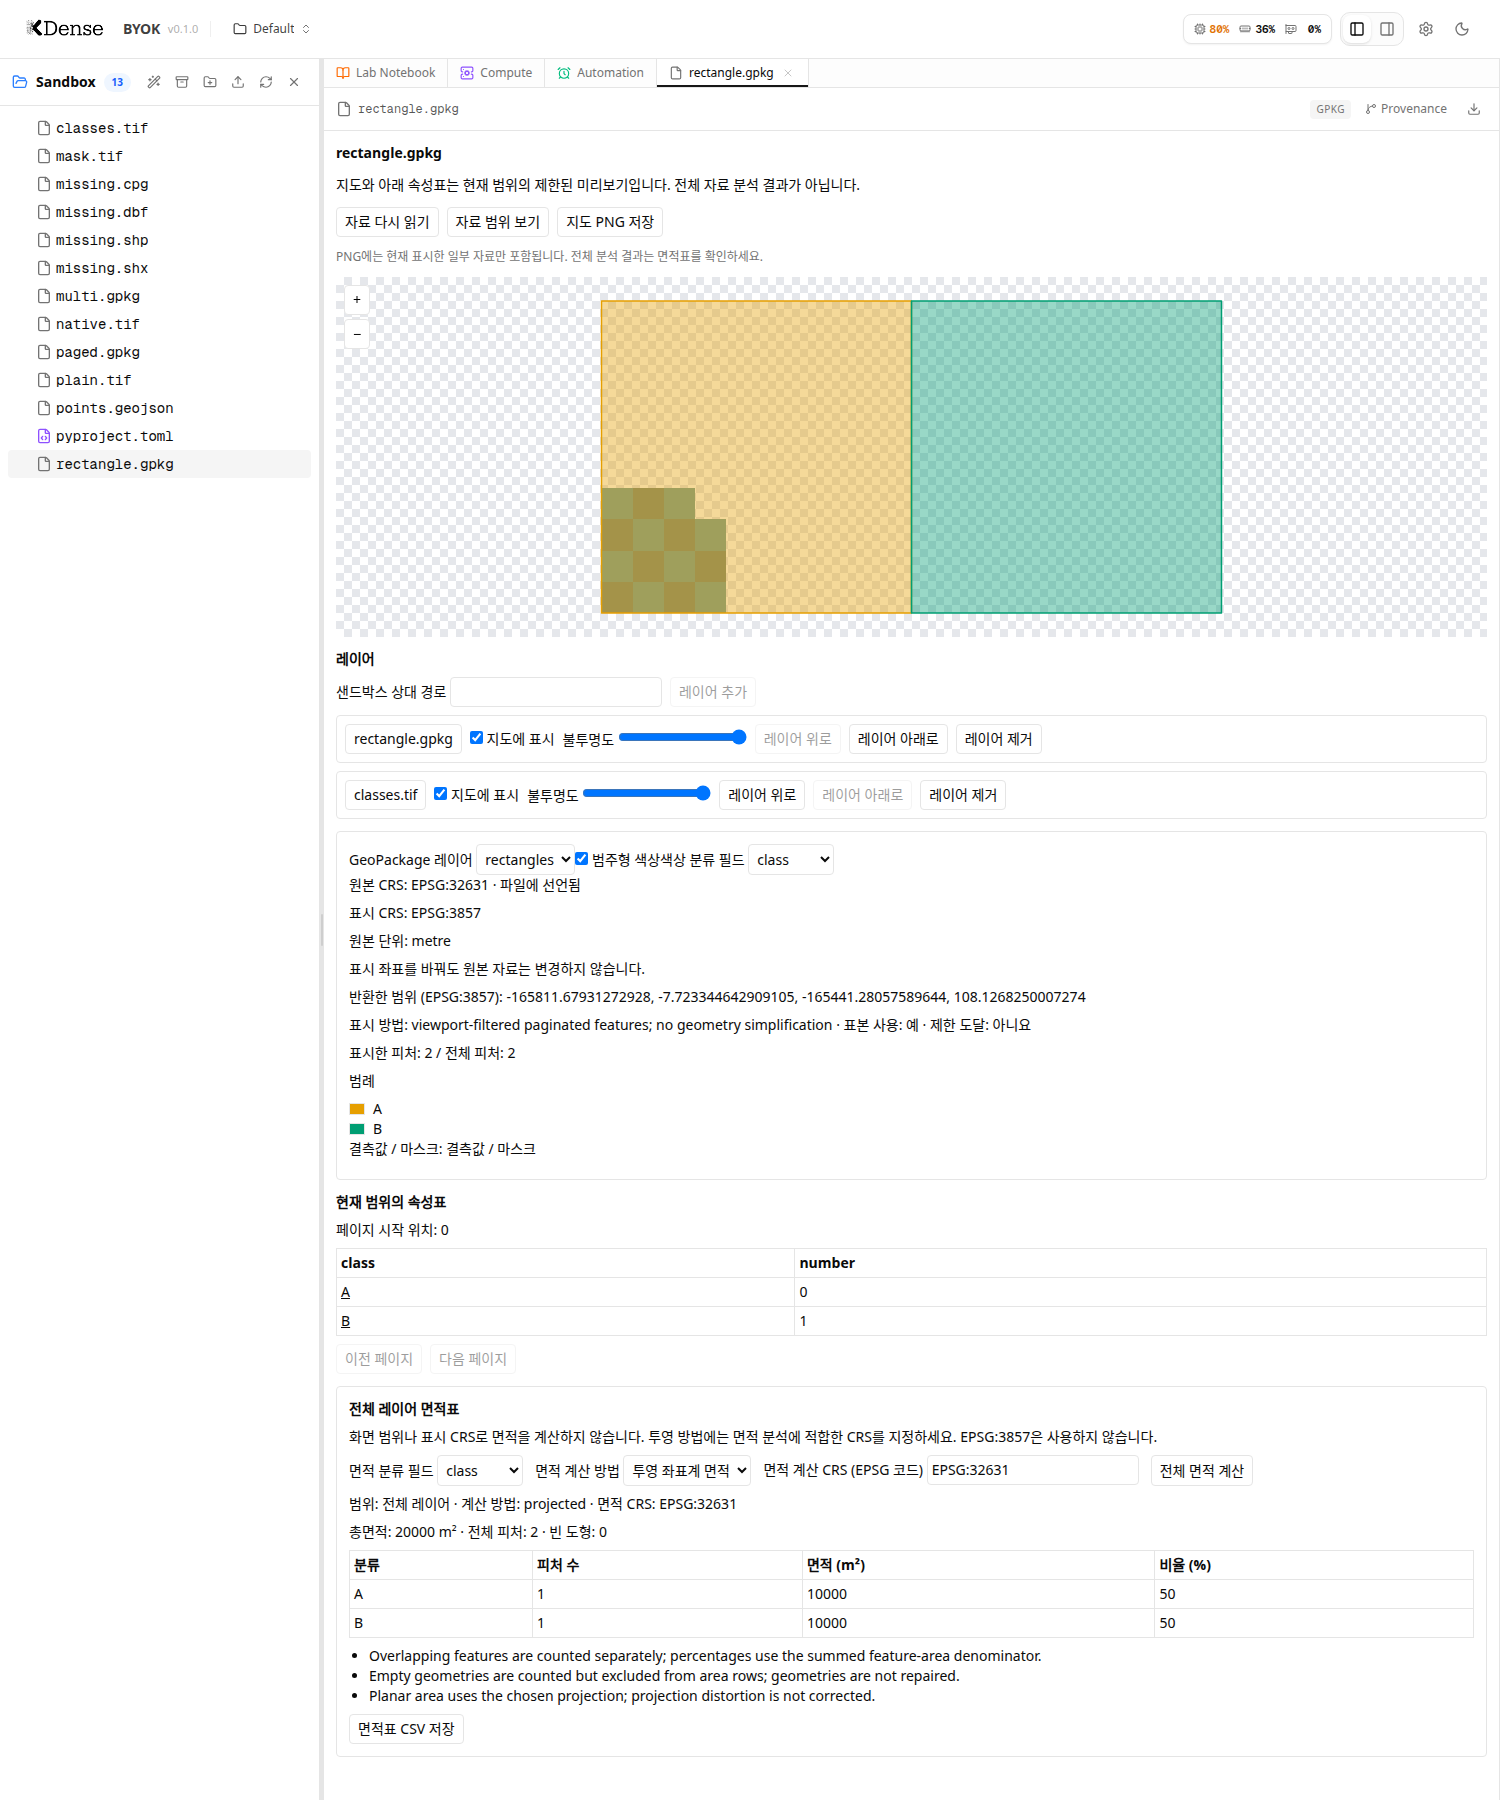
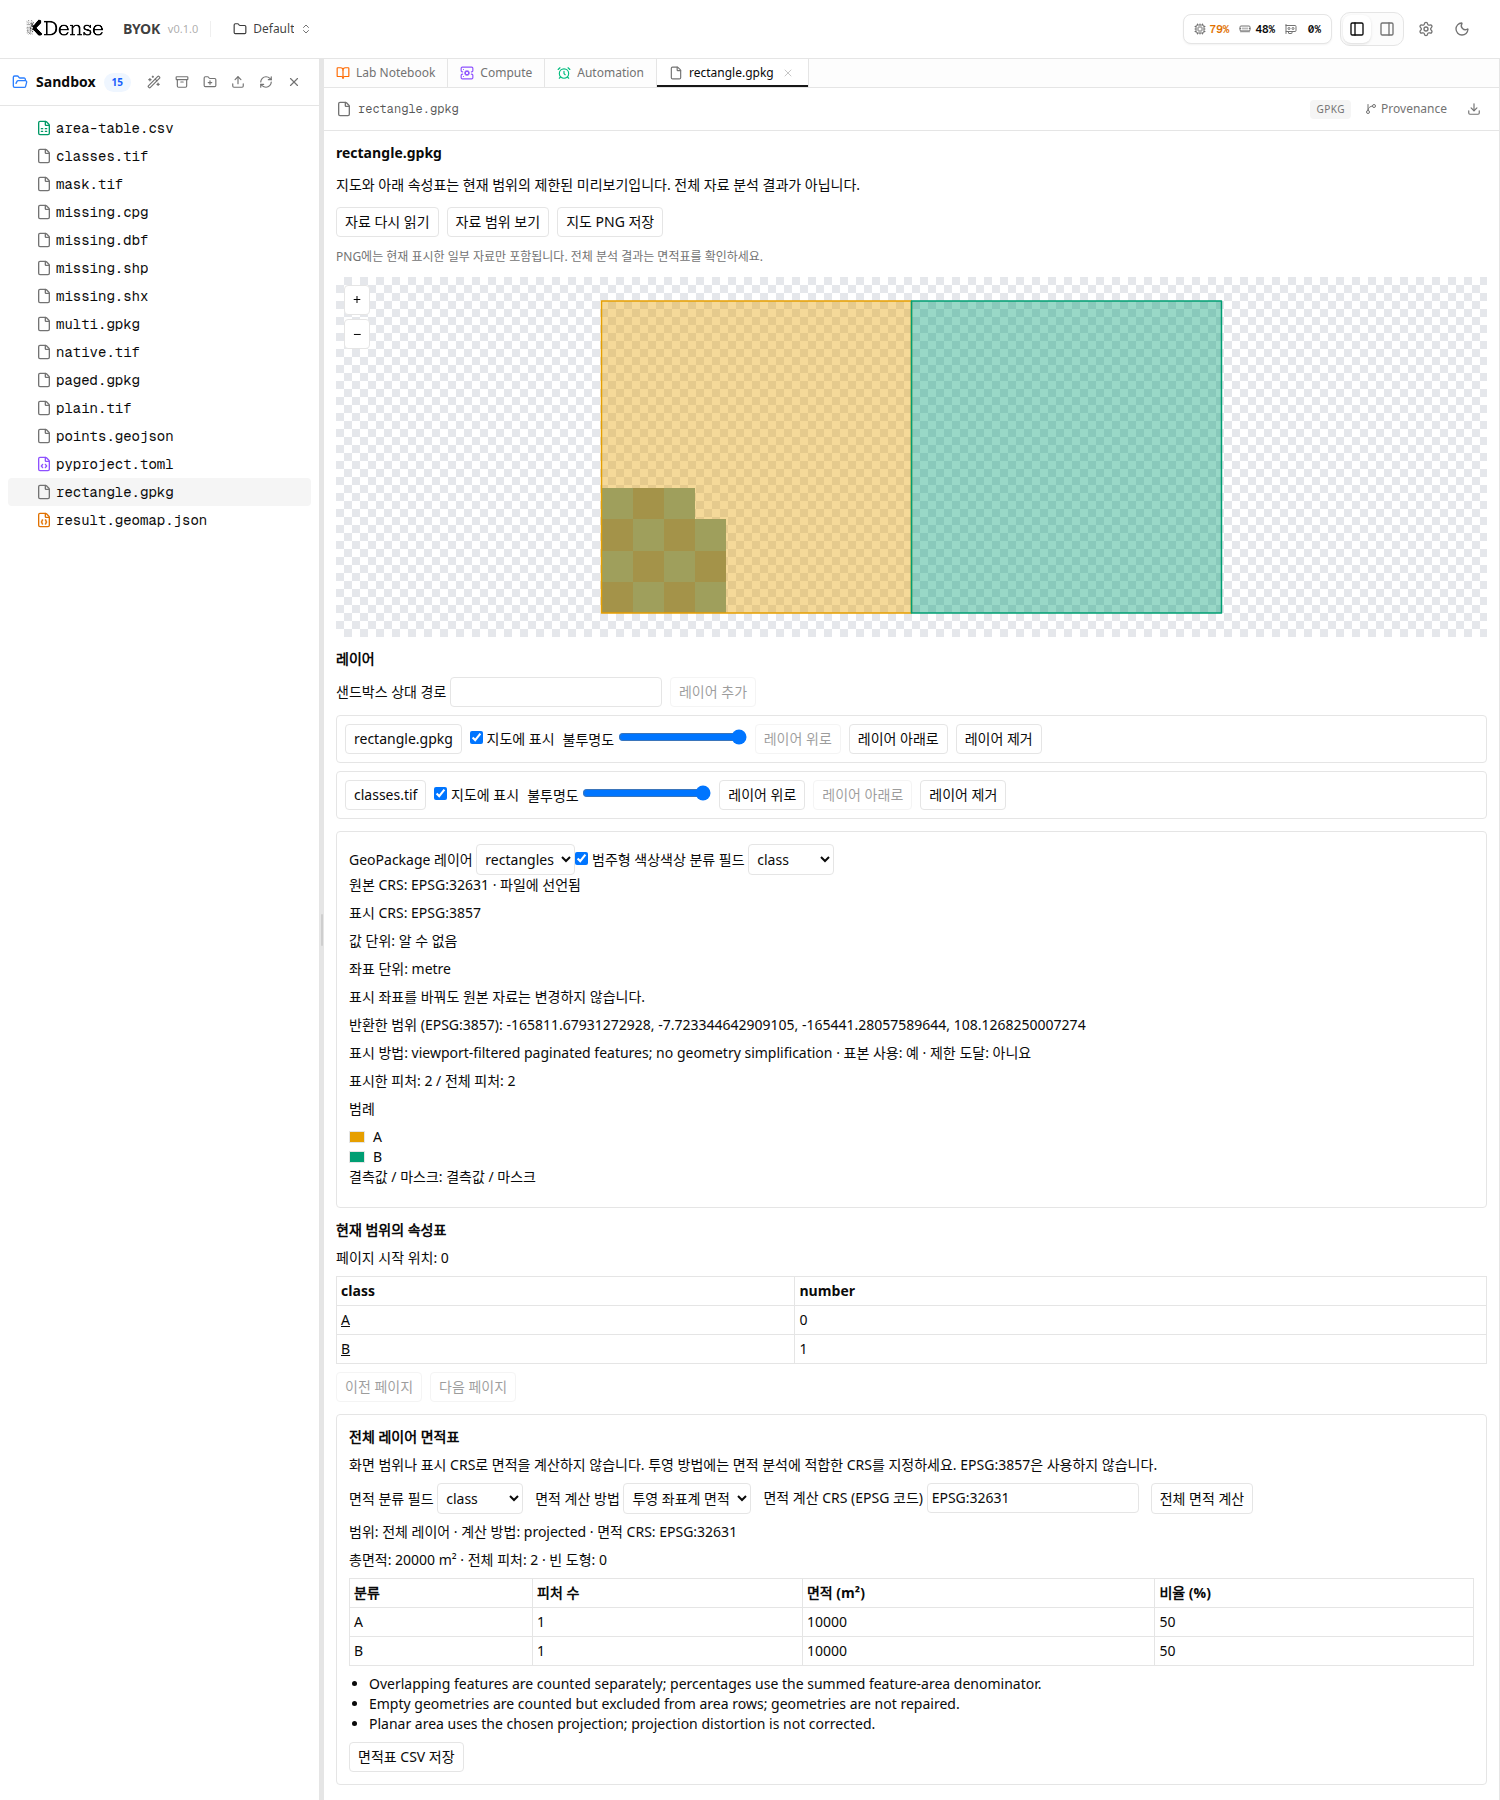
Refresh final map evidence after unit-label correction

diff --git a/docs/tasks/gaid-maps.md b/docs/tasks/gaid-maps.md
@@ -1,7 +1,7 @@
 ---
 format: 1
 status: active
-updated: 2026-10-11T06:10:22Z
+updated: 2026-10-11T06:10:43Z
[1 lines of base64/hex data omitted]
 branch: task/gaid-maps
 target: main
@@ -105,3 +105,6 @@ Report: reports/2026-10-11-gaid-maps/index.md
 - Published parent includes helper and fixture (git cat-file against origin/task/gaid-maps); route f3b3631f1273 updated completed for the viewer dependency only, not whole WP05. No queued routes.
 
 - Browser artifact/viewport follow-up passed: .geomap.json restores class styling and area-table reference; actual zoom POST has bbox and limit500. Test app stopped. Exported PNGs visually inspected and CSV rows read (A/B=10000 m² each, 50%).
+
+- Final browser map/area/CSV/PNG walkthrough rerun successfully after separating coordinate units from unknown value units (code d604849596b6); report figures/hash registry refreshed. Both test app processes stopped.
+- task sync received final WP04 main changes; retained both map/well AGENTS entries, both integration boundaries and both result registry entries. No judgment-dependent conflict.

diff --git a/reports/2026-10-11-gaid-maps/index.md b/reports/2026-10-11-gaid-maps/index.md
@@ -100,6 +100,6 @@ supersedes:
 | 전체 검사 | `scripts/check` — 결과 기록 대기 |
 | 결과 해시 | `results/registry.toml` |
 
-작성 시점: 2026-10-11. 검토 대상 코드 기준: `e3d640370cb5`.
+작성 시점: 2026-10-11. 검토 대상 코드 기준: `d604849596b6`.
 
 </details>
